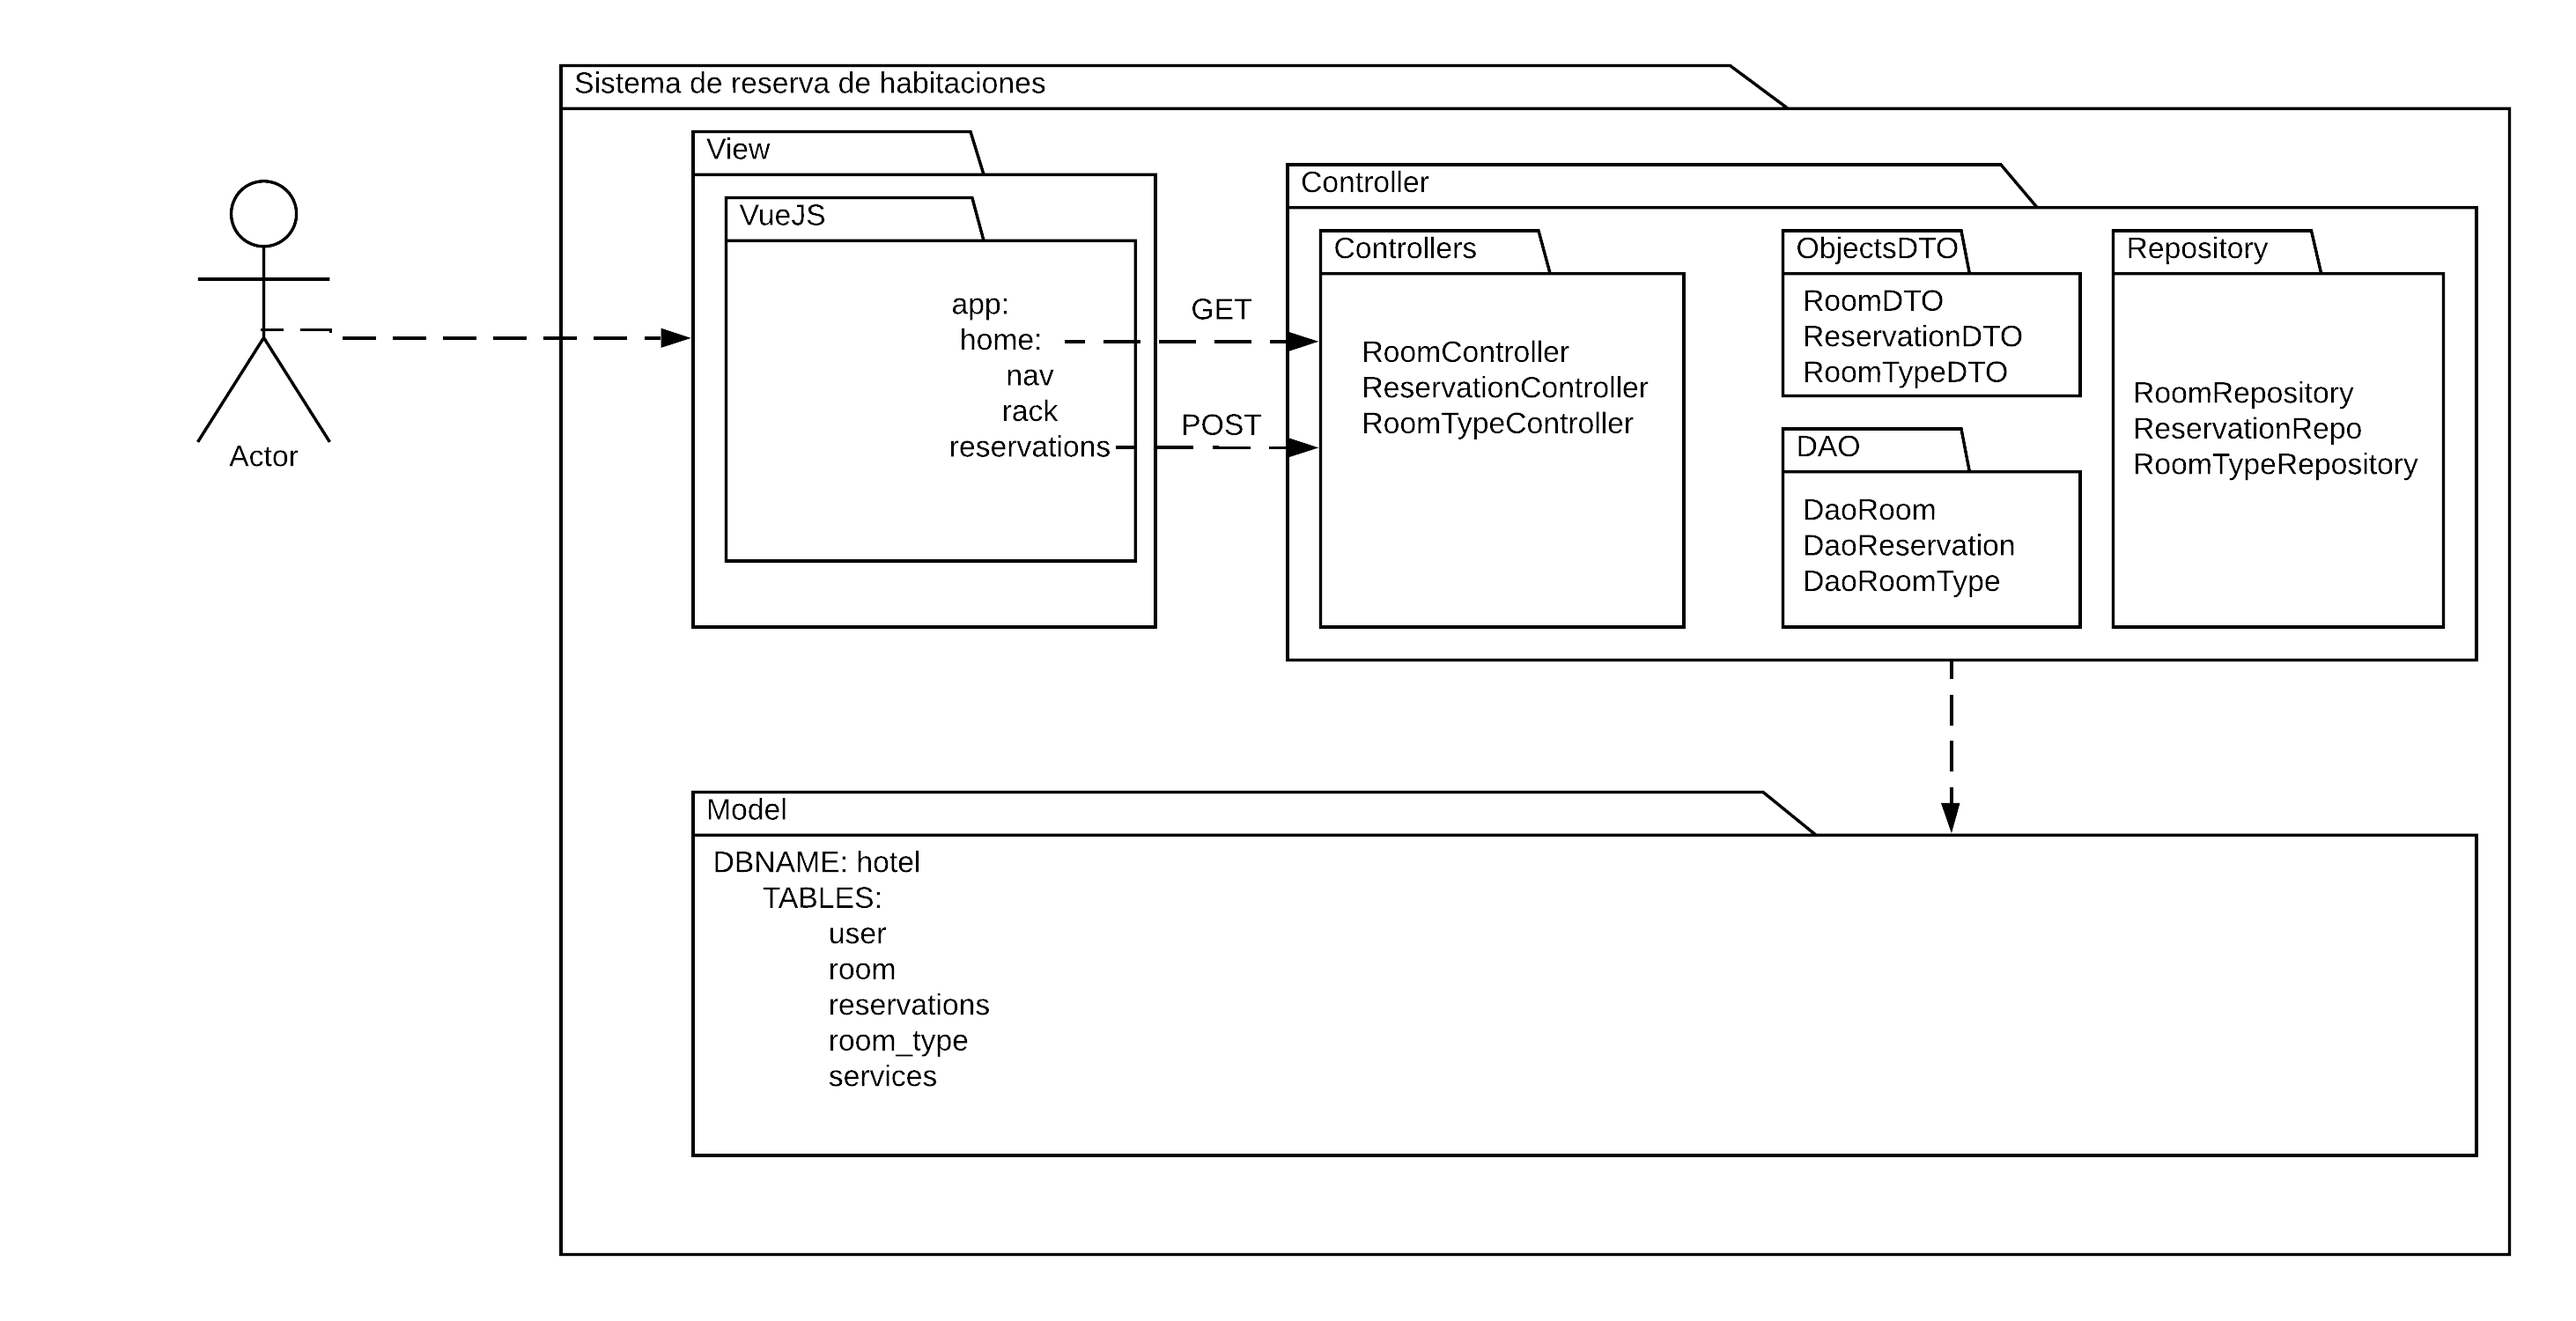
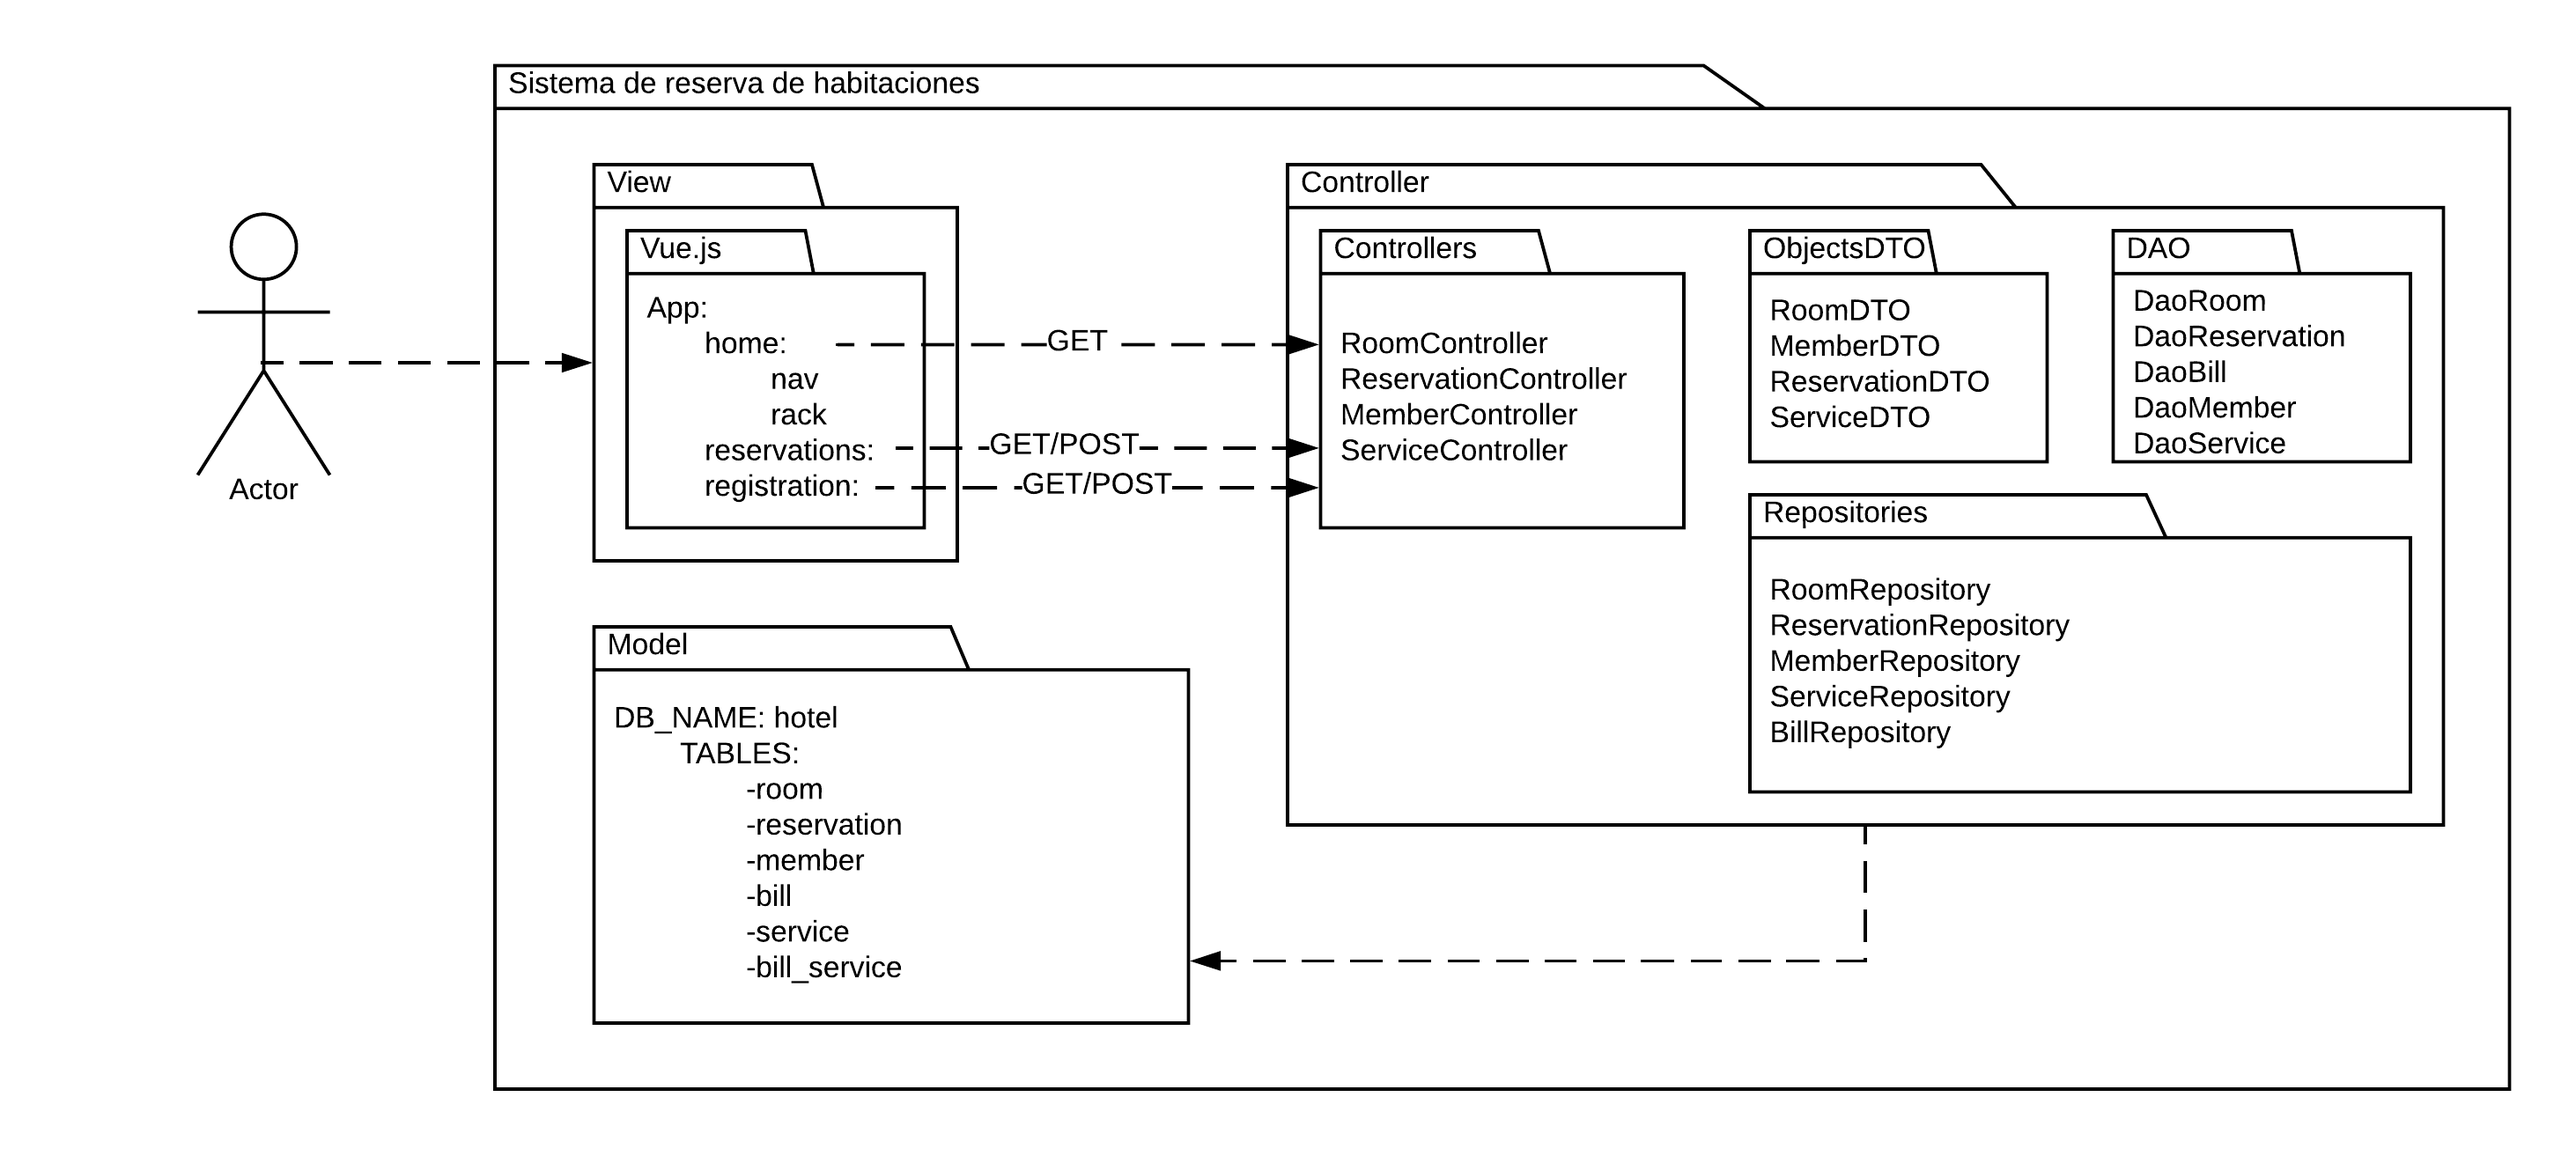
2.5.0 Images added to readme. Minor bugs fixeds. Backend done for second iteration.

diff --git a/src/main/java/com/teamgeso/hotelback/controller/RoomController.java b/src/main/java/com/teamgeso/hotelback/controller/RoomController.java
@@ -3,9 +3,7 @@ package com.teamgeso.hotelback.controller;
 import com.teamgeso.hotelback.dao.DaoRoom;
 import com.teamgeso.hotelback.dto.RoomDTO;
 import com.teamgeso.hotelback.model.Room;
-import com.teamgeso.hotelback.model.Service;
 import com.teamgeso.hotelback.repository.RoomRepository;
-import com.teamgeso.hotelback.repository.ServiceRepository;
 
 import org.springframework.beans.factory.annotation.Autowired;
 import org.springframework.validation.annotation.Validated;
@@ -22,8 +20,6 @@ import java.util.List;
 public class RoomController implements DaoRoom {
     @Autowired
     private RoomRepository roomRepository;
-    @Autowired
-    private ServiceRepository serviceRepository;
 
     @GetMapping("")
     @ResponseBody

diff --git a/src/main/java/com/teamgeso/hotelback/model/Member.java b/src/main/java/com/teamgeso/hotelback/model/Member.java
@@ -91,12 +91,4 @@ public class Member implements Serializable {
     public void setReservation(Reservation reservation){
         this.reservation = reservation;
     }
-
-    // public Integer getBillId(){
-    //     return this.billId;
-    // }
-
-    // public void setBillId(Integer billId){
-    //     this.billId = billId;
-    // }
 }
